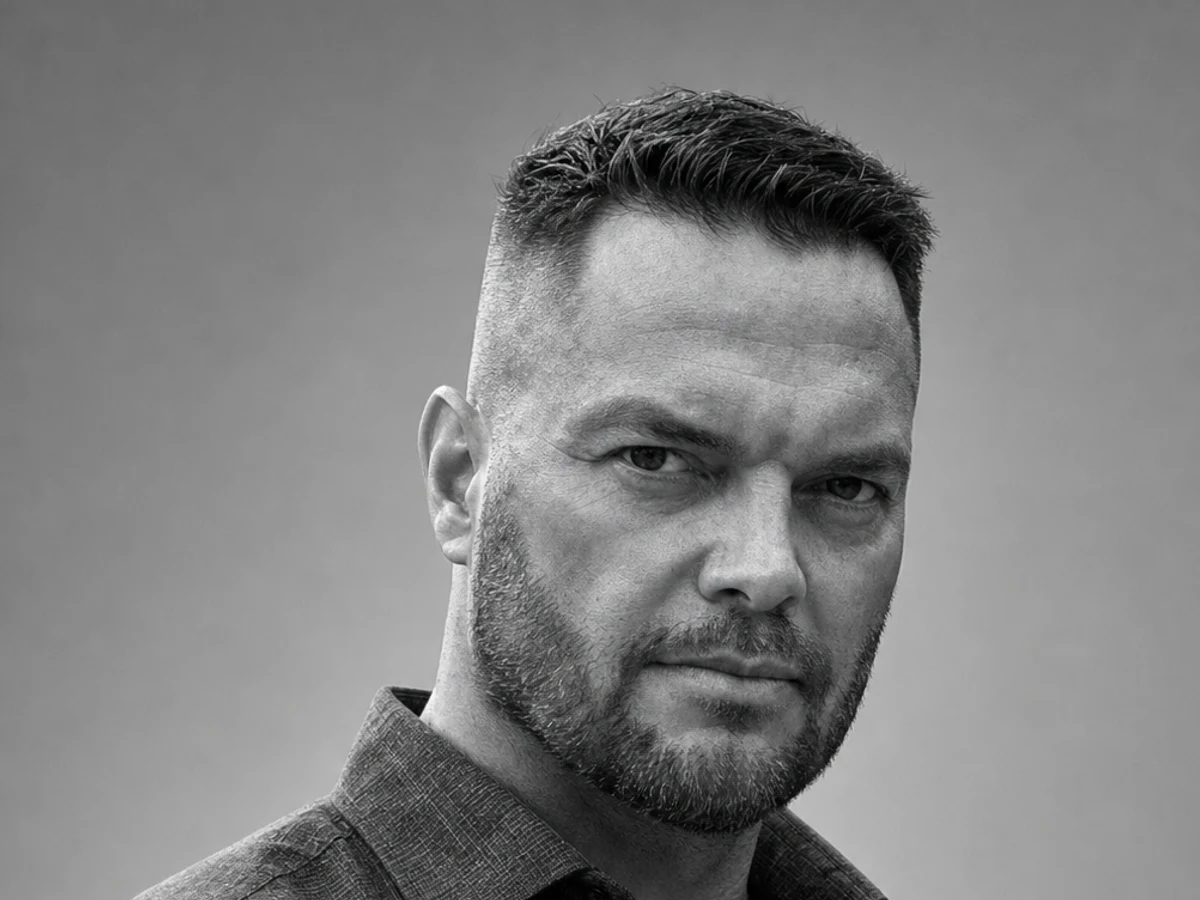
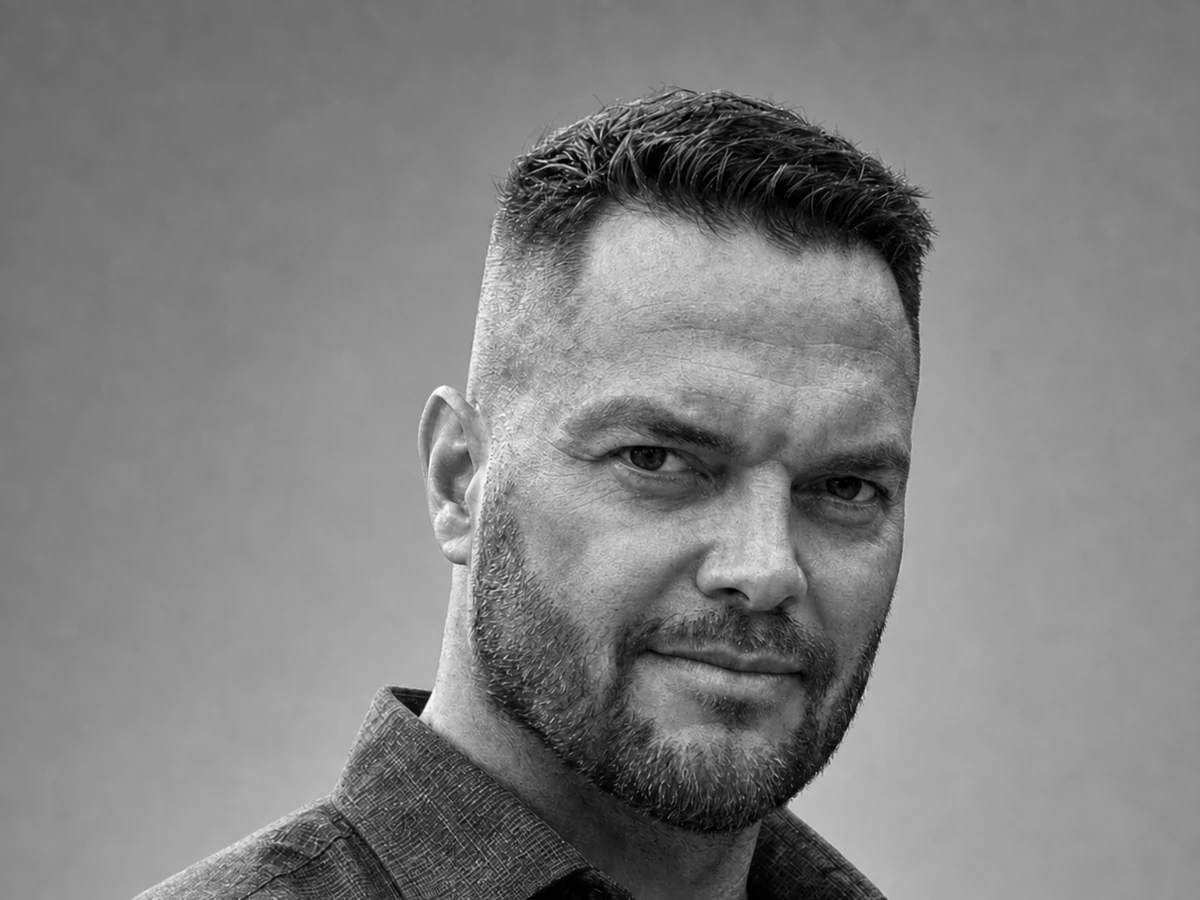
feat: enrich expert profiles and add linkedin

diff --git a/sv-netzwerk/src/data/experts.ts b/sv-netzwerk/src/data/experts.ts
@@ -5,13 +5,13 @@ const centralContact = { email: '[email redacted]', phone: '07367 / 393 97 83' }
 export const experts: ExpertProfile[] = [
   {
     id: 'expert-christian-waechter', slug: 'christian-waechter', name: 'Christian Wächter', role: 'Sachverständiger', group: 'expert',
-    function: 'Sachverständiger und Großschadenregulierer',
+    function: 'Sachverständiger und Großschadenregulierer mit DIN EN ISO/IEC 17024-Zertifizierung',
     expertise: ['Komplexschäden', 'Großschadenregulierung', 'Bauforensik', 'Thermografie', 'Drohnen', 'Fenster · Türen · Fassaden'],
     regions: ['Aalen', 'Baden-Württemberg', 'bundesweit nach Aufgabenstellung'],
-    qualifications: ['Sachverständiger für Bau- und Versicherungsschäden', 'Großschadenregulierer'],
-    certifications: ['Personenzertifizierung nach DIN EN ISO/IEC 17024'],
+    qualifications: ['EU-Bausachverständiger', 'Sachverständiger für Bau- und Versicherungsschäden', 'Großschadenregulierer', 'Industriemeister Holzverarbeitung', 'Fenster- und Systemtechniker', 'Montageleiter Fenster und Fassade', 'Fachkraft für Thermografie', 'Drohnenführerschein A1/A2/A3'],
+    certifications: ['Personenzertifizierung nach DIN EN ISO/IEC 17024 – Fenster, Türen und Fassaden', 'Sachverständiger Fenster · Türen · Fassaden (DGU/SV)', 'Bauforensik und optische Bauforensik', 'Fachgerechte Planung und Montage von Fenstern und Außentüren (ift Rosenheim)', 'Mechanische Sicherungstechnik an Fenstern und Türen nach DIN 18104'],
     shortProfile: 'Sachverständiger und Großschadenregulierer mit DIN EN ISO/IEC 17024-Zertifizierung. Schwerpunkt: komplexe Gebäude-, Hausrat- und Großschäden, gerichtsfeste Gutachten sowie regulierungssichere Schadenbearbeitung.',
-    contact: centralContact, image: '/assets/images/team/christian-waechter-bw.webp', status: 'active',
+    contact: centralContact, linkedin: 'https://www.linkedin.com/in/christian-w-156408204/', image: '/assets/images/team/christian-waechter-bw.webp', status: 'active',
     tags: ['Komplexschäden', 'Großschadenregulierung', 'Bauforensik'], publications: ['/fachwissen/'],
     practiceCases: ['/praxisfaelle/leitungswasser-technische-abgrenzung/'], articles: ['/fachwissen/schadenabgrenzung/'],
   },
@@ -22,7 +22,7 @@ export const experts: ExpertProfile[] = [
     regions: ['bundesweit nach Aufgabenstellung'], qualifications: ['Sachverständiger im Tischlerhandwerk'],
     certifications: ['Öffentlich bestellt und vereidigt', 'Vorstandsmitglied im BVS'],
     shortProfile: 'Öffentlich bestellter und vereidigter Sachverständiger im Tischlerhandwerk. Schwerpunkte sind Fenster, Türen, Fassaden, Wertermittlung, Schlagregen- und Luftdichtheitsprüfung sowie Gebäudeanalytik mittels Wärmebildtechnik.',
-    contact: centralContact, image: '/assets/images/team/marc-schuett.jpg', status: 'active', tags: ['Tischlerhandwerk', 'Fenster', 'Fassade'], publications: [], practiceCases: [], articles: [],
+    contact: centralContact, linkedin: 'https://www.linkedin.com/in/marc-schuett-tischlersv/', image: '/assets/images/team/marc-schuett.jpg', status: 'active', tags: ['Tischlerhandwerk', 'Fenster', 'Fassade'], publications: [], practiceCases: [], articles: [],
   },
   {
     id: 'expert-carmen-gohl', slug: 'carmen-gohl', name: 'Carmen Gohl', role: 'Sachverständiger', group: 'expert',
@@ -31,7 +31,7 @@ export const experts: ExpertProfile[] = [
     regions: ['bundesweit nach Aufgabenstellung'], qualifications: ['Sachschadenbewertung von Immobilien'],
     certifications: ['Personenzertifizierung nach DIN EN ISO/IEC 17024', 'Vorstandsmitglied im BSS'],
     shortProfile: 'Sachverständige für Sachschadenbewertungen von Immobilien. Ihre Schwerpunkte sind Schadenregulierung, Sachschadenermittlung, Schimmelpilze, Feuchteprobleme, Innenraumschadstoffe und Ölschäden.',
-    contact: centralContact, image: '/assets/images/team/carmen-gohl.jpg', status: 'active', tags: ['Sachschadenbewertung', 'Schimmelpilze', 'Innenraumschadstoffe'], publications: [], practiceCases: ['/praxisfaelle/schimmel-dachbereich-ursachenabgrenzung/'], articles: [],
+    contact: centralContact, linkedin: 'https://www.linkedin.com/in/carmen-gohl-34364324a/', image: '/assets/images/team/carmen-gohl.jpg', status: 'active', tags: ['Sachschadenbewertung', 'Schimmelpilze', 'Innenraumschadstoffe'], publications: [], practiceCases: ['/praxisfaelle/schimmel-dachbereich-ursachenabgrenzung/'], articles: [],
   },
   {
     id: 'expert-claudius-freiberg', slug: 'claudius-freiberg', name: 'Claudius Freiberg', role: 'Sachverständiger', group: 'expert',
@@ -39,7 +39,7 @@ export const experts: ExpertProfile[] = [
     expertise: ['Oberflächenschäden', 'Materialbewertung', 'Beschichtungen', 'Holz', 'Aluminium', 'Kunststoff'],
     regions: ['bundesweit nach Aufgabenstellung'], qualifications: ['Sachverständiger im Tischlerhandwerk'], certifications: ['Öffentlich bestellt und vereidigt'],
     shortProfile: 'Öffentlich bestellter und vereidigter Sachverständiger im Tischlerhandwerk mit Schwerpunkt Oberflächenschäden sowie Material- und Beschichtungsbewertung an Holz, Aluminium, Kunststoff und weiteren Werkstoffen.',
-    contact: centralContact, image: '/assets/images/team/claudius-freiberg.jpg', status: 'active', tags: ['Oberflächenschäden', 'Materialbewertung', 'Beschichtungen'], publications: [], practiceCases: [], articles: [],
+    contact: centralContact, linkedin: 'https://www.linkedin.com/in/claudius-freiberg/', image: '/assets/images/team/claudius-freiberg.jpg', status: 'active', tags: ['Oberflächenschäden', 'Materialbewertung', 'Beschichtungen'], publications: [], practiceCases: [], articles: [],
   },
   {
     id: 'expert-lenna-maria-walczok', slug: 'lenna-maria-walczok', name: 'Lenna Maria Walczok, M.Eng.', role: 'Sachverständiger', group: 'expert',
@@ -47,7 +47,7 @@ export const experts: ExpertProfile[] = [
     expertise: ['Baucontrolling', 'Gebäudeschäden', 'Nachtragsprüfung', 'Terminmanagement', 'SiGeKo', 'Sanierungsberatung'],
     regions: ['bundesweit nach Aufgabenstellung'], qualifications: ['Master of Engineering', 'Bauingenieurin', 'Bauschadenbewertung'], certifications: ['DEKRA-zertifizierte Sachverständige'],
     shortProfile: 'Spezialistin für Baucontrolling, Gebäudeschäden, Sanierungsberatung, Nachtragsprüfung, Terminmanagement, SiGeKo und zerstörungsfreie Messtechnik.',
-    contact: centralContact, image: '/assets/images/team/lenna-maria-walczok.jpg', status: 'active', tags: ['Baucontrolling', 'Gebäudeschäden', 'Nachtragsprüfung'], publications: [], practiceCases: [], articles: [],
+    contact: centralContact, linkedin: 'https://www.linkedin.com/in/lenna-maria-walczok-6bb468291/', image: '/assets/images/team/lenna-maria-walczok.jpg', status: 'active', tags: ['Baucontrolling', 'Gebäudeschäden', 'Nachtragsprüfung'], publications: [], practiceCases: [], articles: [],
   },
   {
     id: 'expert-holger-roth', slug: 'holger-roth', name: 'Holger Roth', role: 'Regulierer', group: 'expert',
@@ -55,7 +55,7 @@ export const experts: ExpertProfile[] = [
     expertise: ['Sachschäden', 'Haftpflichtschäden', 'Schadenregulierung'], regions: ['Schwäbisch Gmünd', 'Baden-Württemberg', 'Bayern'],
     qualifications: ['Praxisorientierte Schadenregulierung'], certifications: [],
     shortProfile: 'Holger Roth ist im SV-Netzwerk als Schadenregulierer für Sach- und Haftpflichtschäden tätig. Von Schwäbisch Gmünd aus betreut er Teile von Baden-Württemberg und Bayern und unterstützt eine strukturierte, praxisnahe Schadenbearbeitung.',
-    contact: centralContact, image: '/assets/images/team/holger-roth.jpeg', status: 'active', tags: ['Sachschäden', 'Haftpflichtschäden', 'Schadenregulierung'], publications: [], practiceCases: [], articles: [],
+    contact: centralContact, linkedin: 'https://www.linkedin.com/in/holger-roth-5082306a/', image: '/assets/images/team/holger-roth.jpeg', status: 'active', tags: ['Sachschäden', 'Haftpflichtschäden', 'Schadenregulierung'], publications: [], practiceCases: [], articles: [],
   },
   {
     id: 'backoffice-susanne-waechter', slug: 'susanne-waechter', name: 'Susanne Wächter', role: 'Backoffice', group: 'backoffice',

diff --git a/sv-netzwerk/src/data/site.ts b/sv-netzwerk/src/data/site.ts
@@ -11,7 +11,7 @@ export const site = {
     role: 'Sachverständiger & Großschadenregulierer',
     qualification: 'DIN EN ISO/IEC 17024 zertifiziert'
   },
-  version: '5.1.9',
+  version: '5.1.10',
   navigation: [
     { label: 'Leistungen', href: '/leistungen/' },
     { label: 'Schadenarten', href: '/schadenarten/' },

diff --git a/sv-netzwerk/src/pages/search-index.json.ts b/sv-netzwerk/src/pages/search-index.json.ts
@@ -7,7 +7,7 @@ export const GET: APIRoute = async () => {
   const searchIndex = await buildSearchIndex();
   return new Response(
   JSON.stringify({
-    version: '5.1.9',
+    version: '5.1.10',
     generatedAt: new Date().toISOString(),
     count: searchIndex.length,
     facets: {

diff --git a/sv-netzwerk/src/types/platform.ts b/sv-netzwerk/src/types/platform.ts
@@ -13,6 +13,7 @@ export interface ExpertProfile {
   certifications: string[];
   shortProfile: string;
   contact: { email: string; phone?: string };
+  linkedin?: string;
   image?: string;
   status: 'active' | 'onboarding';
   tags: string[];

diff --git a/CHANGELOG.md b/CHANGELOG.md
@@ -1,5 +1,12 @@
 # Changelog
 
+## 5.1.10 – 2026-07-15
+
+- Christians Profilüberschrift um die DIN EN ISO/IEC 17024-Zertifizierung ergänzt
+- Qualifikationen aus dem fachlichen Portfolio einschließlich EU-Bausachverständiger, Thermografie, Bauforensik, Fenstertechnik und Drohnenführerschein aufgenommen
+- LinkedIn-Profile für Christian Wächter, Marc Schütt, Lenna Maria Walczok, Holger Roth, Carmen Gohl und Claudius Freiberg ergänzt
+- Portrait von Christian Wächter mit einem freundlicheren, dezent lächelnden Gesichtsausdruck aktualisiert
+
 ## 5.1.9 – 2026-07-15
 
 - alle Seiten mit einem dezenten, weich verlaufenden Hintergrund aus Logo-Blau und Logo-Orange versehen

diff --git a/VALIDATION.md b/VALIDATION.md
@@ -1,4 +1,4 @@
-# Validierung – SV-Netzwerk v5.1.9
+# Validierung – SV-Netzwerk v5.1.10
 
 Stand: 15.07.2026
 